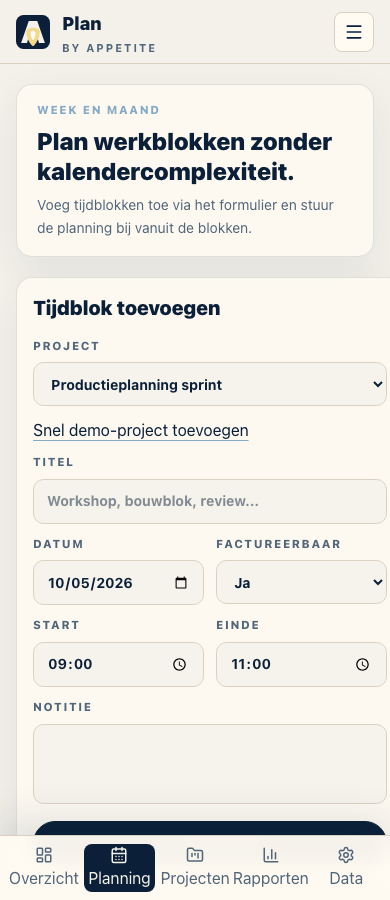
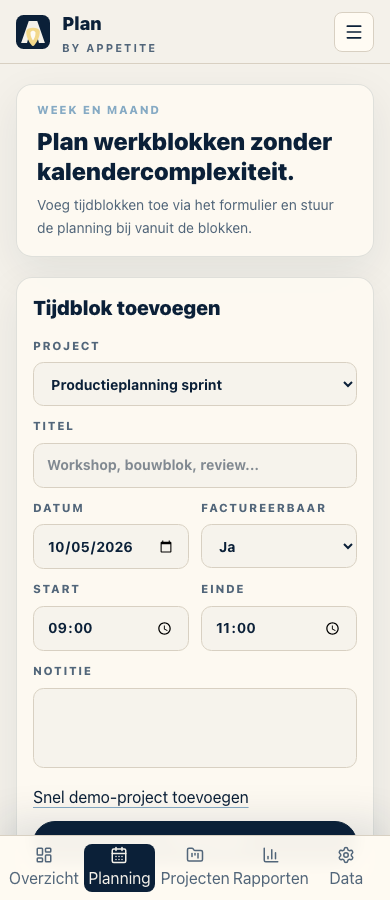
Fix planning layout overflow

diff --git a/src/components/PlanApp.tsx b/src/components/PlanApp.tsx
@@ -393,54 +393,56 @@ function Planning({
   return (
     <div className="space-y-5">
       <ScreenIntro screen="planning" />
-      <div className="grid gap-5 xl:grid-cols-[380px_minmax(0,1fr)]">
-      <Panel title={entryDraft.id ? 'Planning bijwerken' : 'Tijdblok toevoegen'}>
-        <form onSubmit={submitEntry} className="space-y-3">
-          <Field label="Project">
-            <select className="field" value={entryDraft.projectId} onChange={(event) => setEntryDraft({ ...entryDraft, projectId: event.target.value })} required>
-              {state.projects.map((project) => (
-                <option key={project.id} value={project.id}>
-                  {project.name}
-                </option>
-              ))}
-            </select>
-          </Field>
-          <button type="button" className="text-sm font-bold text-app-navy underline decoration-app-blue underline-offset-4" onClick={quickProject}>
-            Snel demo-project toevoegen
-          </button>
-          <Field label="Titel">
-            <input className="field" value={entryDraft.title} onChange={(event) => setEntryDraft({ ...entryDraft, title: event.target.value })} placeholder="Workshop, bouwblok, review..." />
-          </Field>
-          <div className="grid grid-cols-2 gap-3">
-            <Field label="Datum">
-              <input className="field" type="date" value={entryDraft.date} onChange={(event) => setEntryDraft({ ...entryDraft, date: event.target.value })} />
-            </Field>
-            <Field label="Factureerbaar">
-              <select className="field" value={entryDraft.billable ? 'yes' : 'no'} onChange={(event) => setEntryDraft({ ...entryDraft, billable: event.target.value === 'yes' })}>
-                <option value="yes">Ja</option>
-                <option value="no">Nee</option>
+      <div className="grid min-w-0 gap-5 2xl:grid-cols-[340px_minmax(0,1fr)]">
+        <Panel title={entryDraft.id ? 'Planning bijwerken' : 'Tijdblok toevoegen'}>
+          <form onSubmit={submitEntry} className="grid gap-3 md:grid-cols-2 2xl:block 2xl:space-y-3">
+            <Field label="Project">
+              <select className="field" value={entryDraft.projectId} onChange={(event) => setEntryDraft({ ...entryDraft, projectId: event.target.value })} required>
+                {state.projects.map((project) => (
+                  <option key={project.id} value={project.id}>
+                    {project.name}
+                  </option>
+                ))}
               </select>
             </Field>
-          </div>
-          <div className="grid grid-cols-2 gap-3">
-            <Field label="Start">
-              <input className="field" type="time" value={entryDraft.startTime} onChange={(event) => setEntryDraft({ ...entryDraft, startTime: event.target.value })} />
+            <Field label="Titel">
+              <input className="field" value={entryDraft.title} onChange={(event) => setEntryDraft({ ...entryDraft, title: event.target.value })} placeholder="Workshop, bouwblok, review..." />
             </Field>
-            <Field label="Einde">
-              <input className="field" type="time" value={entryDraft.endTime} onChange={(event) => setEntryDraft({ ...entryDraft, endTime: event.target.value })} />
+            <div className="grid grid-cols-2 gap-3">
+              <Field label="Datum">
+                <input className="field" type="date" value={entryDraft.date} onChange={(event) => setEntryDraft({ ...entryDraft, date: event.target.value })} />
+              </Field>
+              <Field label="Factureerbaar">
+                <select className="field" value={entryDraft.billable ? 'yes' : 'no'} onChange={(event) => setEntryDraft({ ...entryDraft, billable: event.target.value === 'yes' })}>
+                  <option value="yes">Ja</option>
+                  <option value="no">Nee</option>
+                </select>
+              </Field>
+            </div>
+            <div className="grid grid-cols-2 gap-3">
+              <Field label="Start">
+                <input className="field" type="time" value={entryDraft.startTime} onChange={(event) => setEntryDraft({ ...entryDraft, startTime: event.target.value })} />
+              </Field>
+              <Field label="Einde">
+                <input className="field" type="time" value={entryDraft.endTime} onChange={(event) => setEntryDraft({ ...entryDraft, endTime: event.target.value })} />
+              </Field>
+            </div>
+            <Field label="Notitie">
+              <textarea className="field min-h-20 resize-none" value={entryDraft.notes} onChange={(event) => setEntryDraft({ ...entryDraft, notes: event.target.value })} />
             </Field>
-          </div>
-          <Field label="Notitie">
-            <textarea className="field min-h-20 resize-none" value={entryDraft.notes} onChange={(event) => setEntryDraft({ ...entryDraft, notes: event.target.value })} />
-          </Field>
-          <button className="btn-primary w-full" type="submit">
-            <Plus size={17} /> {entryDraft.id ? 'Bijwerken' : 'Toevoegen'}
-          </button>
-        </form>
-      </Panel>
+            <div className="flex flex-col justify-end gap-3">
+              <button type="button" className="text-left text-sm font-bold text-app-navy underline decoration-app-blue underline-offset-4" onClick={quickProject}>
+                Snel demo-project toevoegen
+              </button>
+              <button className="btn-primary w-full" type="submit">
+                <Plus size={17} /> {entryDraft.id ? 'Bijwerken' : 'Toevoegen'}
+              </button>
+            </div>
+          </form>
+        </Panel>
 
-      <section className="space-y-4">
-        <div className="flex flex-wrap items-center justify-between gap-3">
+      <section className="min-w-0 space-y-4">
+        <div className="flex min-w-0 flex-wrap items-center justify-between gap-3">
           <div>
             <h2 className="font-display text-2xl font-black tracking-normal">Mei 2026</h2>
             <p className="text-sm text-app-muted">Drag-free MVP: plannen via het formulier, wijzigen via de blokken.</p>
@@ -451,18 +453,18 @@ function Planning({
           </div>
         </div>
 
-        <div className={mode === 'week' ? 'grid gap-3 lg:grid-cols-7' : 'grid gap-3 sm:grid-cols-2 lg:grid-cols-4 xl:grid-cols-7'}>
+        <div className={mode === 'week' ? 'grid min-w-0 gap-3 sm:grid-cols-2 lg:grid-cols-4 xl:grid-cols-7' : 'grid min-w-0 gap-3 sm:grid-cols-2 lg:grid-cols-4 xl:grid-cols-7'}>
           {days.map((day) => {
             const key = toDateKey(day)
             const entries = state.timeEntries.filter((entry) => entry.date === key).sort((a, b) => a.startTime.localeCompare(b.startTime))
             return (
-              <article key={key} className="app-panel min-h-[178px] rounded-2xl p-3">
+              <article key={key} className="app-panel min-w-0 rounded-2xl p-3 xl:min-h-[178px]">
                 <div className="mb-3 flex items-center justify-between gap-2">
-                  <div>
+                  <div className="min-w-0">
                     <p className="app-caption text-app-muted">{day.toLocaleDateString('nl-BE', { weekday: 'short' })}</p>
                     <h3 className="font-display text-xl font-black">{day.getDate()}</h3>
                   </div>
-                  <span className="rounded-full bg-app-blue/16 px-2.5 py-1 text-xs font-bold">{formatHours(entries.reduce((sum, entry) => sum + entry.hours, 0))}</span>
+                  <span className="shrink-0 rounded-full bg-app-blue/16 px-2.5 py-1 text-xs font-bold">{formatHours(entries.reduce((sum, entry) => sum + entry.hours, 0))}</span>
                 </div>
                 <div className="space-y-2">
                   {entries.map((entry) => {